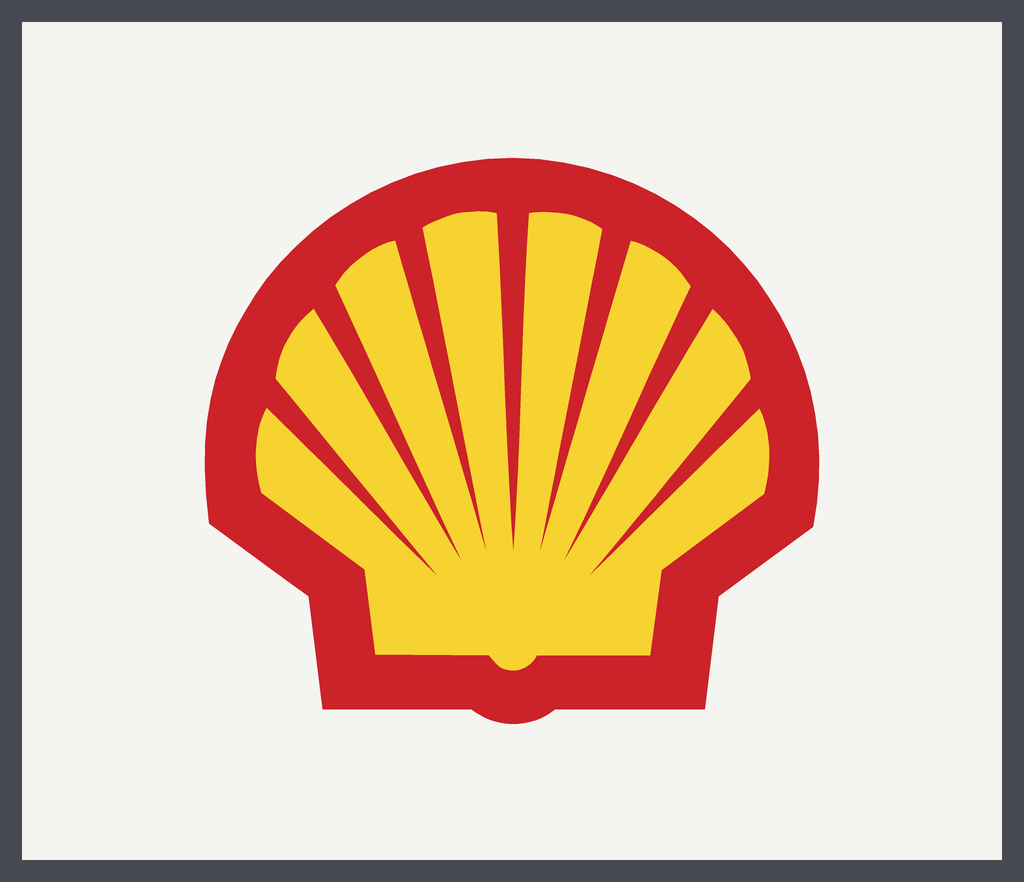
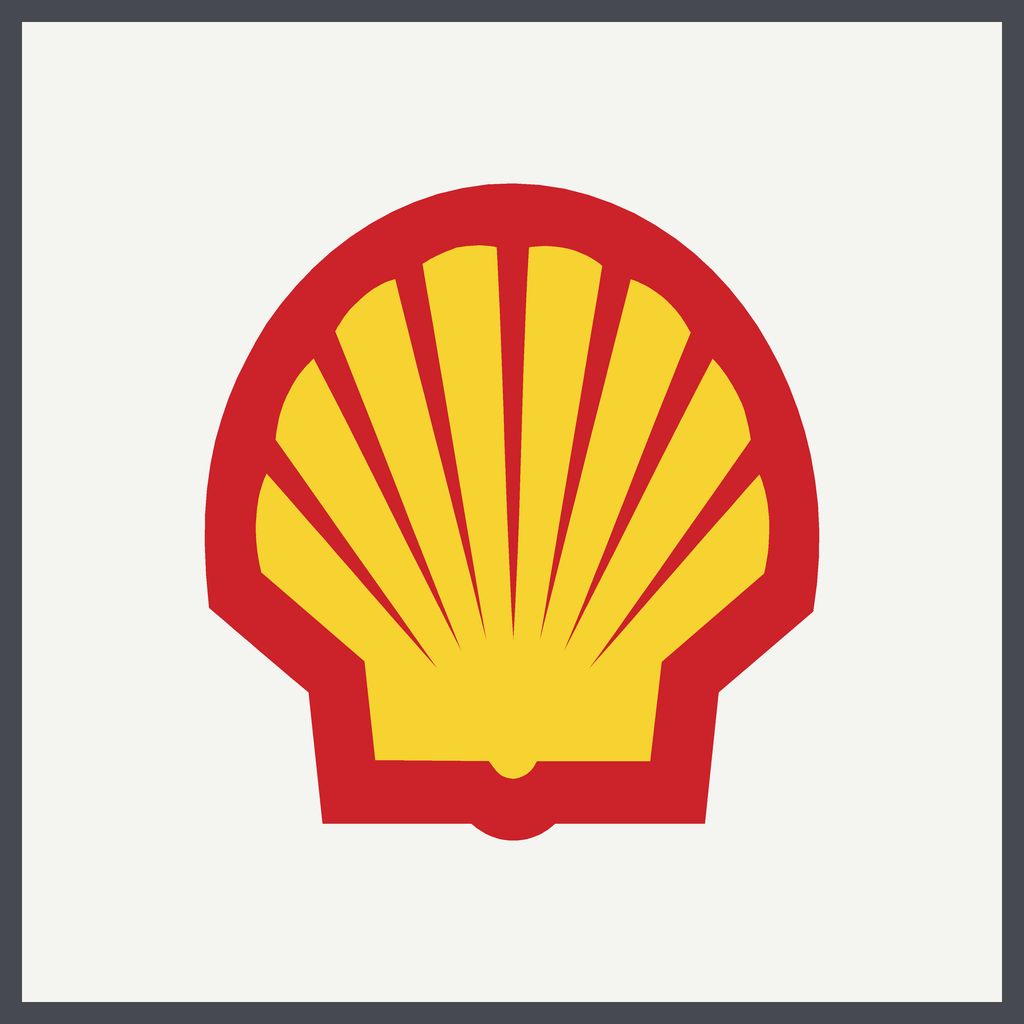
🤖 [cyxd] Shell sign texture: 1024x1024 (the texture compiler rejected 1024x882)

Changed region(s): [[0.0312, 0.949, 0.9688, 0.9796], [0.0312, 0.0, 0.9688, 0.0306]]

diff --git a/airport-cyxd/tools/make_shell_sign.py b/airport-cyxd/tools/make_shell_sign.py
@@ -1,5 +1,6 @@
 """Rasterise the Shell pecten (first two paths of docs/cyxd/hangar16-photos/shell-pecten-reference.svg) onto a white sign board
--> tools/assets/shell_sign.png (1024 x 882, the 3.6 x 3.1 m board).  Run once; gen_buildings.py copies the PNG into modelLib.
+-> tools/assets/shell_sign.png (1024 x 1024, a power of two as the texture compiler needs; it is stretched onto the
+3.6 x 3.1 m board, so the logo is pre-squashed to look right).  Run once; gen_buildings.py copies the PNG into modelLib.
     python -I airport-cyxd/tools/make_shell_sign.py"""
 import re
 from pathlib import Path
@@ -8,7 +9,8 @@ from PIL import Image, ImageDraw
 HERE = Path(__file__).resolve().parent
 SVG = HERE.parents[1] / "docs/cyxd/hangar16-photos/shell-pecten-reference.svg"
 OUT = HERE / "assets/shell_sign.png"
-W, H, SS = 1024, 882, 4
+W, H, SS = 1024, 1024, 4
+ASPECT = 3.6 / 3.1  # board width / height in metres
 
 
 def path_points(d, steps=12):
@@ -57,10 +59,11 @@ def main():
     yel = next(path_points(d) for d, f in paths if f.lower() == "#f6d330")
     xs, ys = [p[0] for p in red], [p[1] for p in red]
     x0, x1, y0, y1 = min(xs), max(xs), min(ys), max(ys)
-    s = 0.60 * W * SS / (x1 - x0)
-    ox = W * SS / 2 - (x0 + x1) / 2 * s
-    oy = H * SS / 2 - (y0 + y1) / 2 * s
-    tr = lambda pts: [(x * s + ox, y * s + oy) for x, y in pts]
+    sx = 0.60 * W * SS / (x1 - x0)
+    sy = sx * ASPECT
+    ox = W * SS / 2 - (x0 + x1) / 2 * sx
+    oy = H * SS / 2 - (y0 + y1) / 2 * sy
+    tr = lambda pts: [(x * sx + ox, y * sy + oy) for x, y in pts]
     im = Image.new("RGB", (W * SS, H * SS), (244, 244, 240))
     dr = ImageDraw.Draw(im)
     rim = 22 * SS
